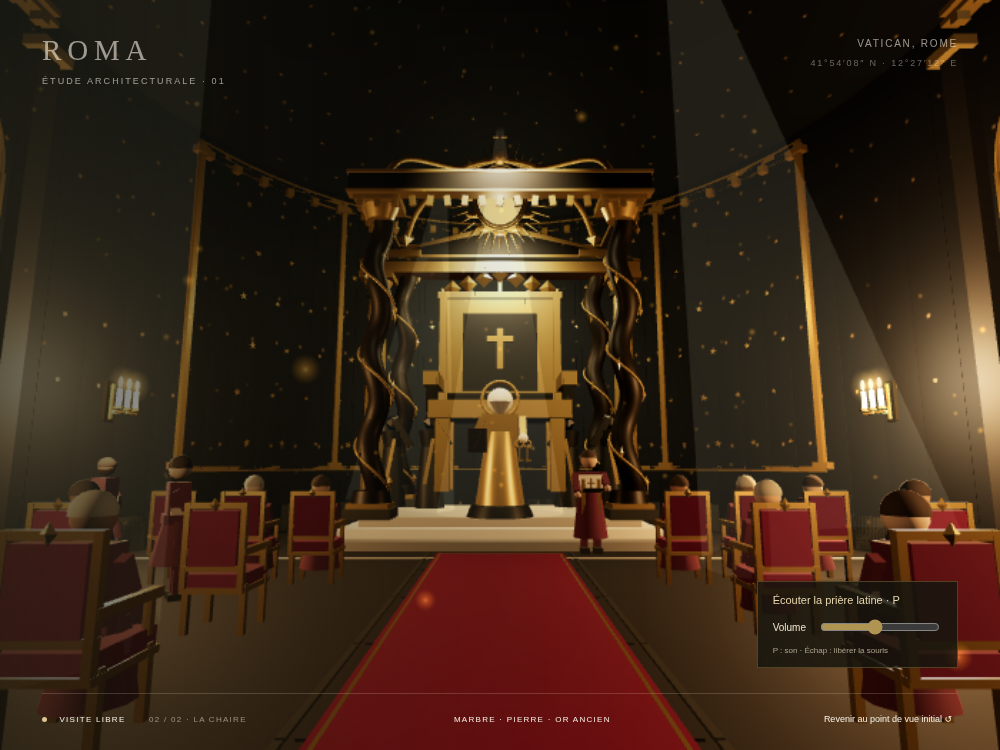
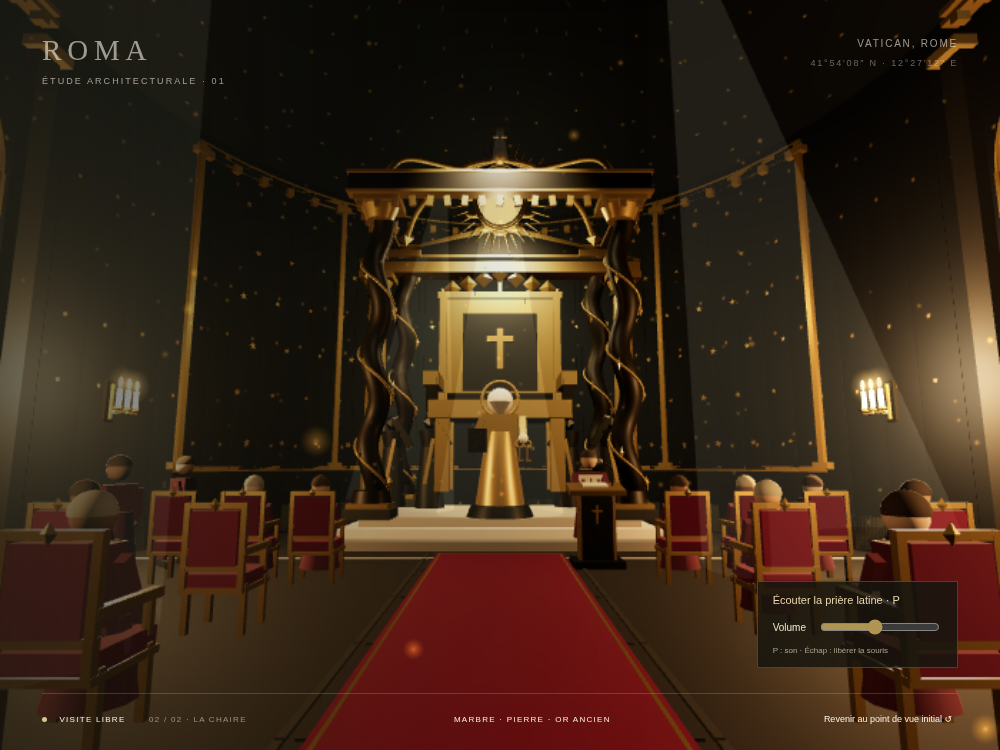
Articulate visitor walking and add ceremony lectern with microphone

diff --git a/src/chapel.js b/src/chapel.js
@@ -271,11 +271,14 @@ export function createChapel({scene,box,cylinder,mat,cream,stone,gray,black,gold
     const limbs=[];
     for(const side of [-1,1]){
       const leg=new THREE.Group();leg.position.set(side*.11,.63,0);group.add(leg);
-      const calf=new THREE.Mesh(new THREE.BoxGeometry(.11,.38,.13),robe);calf.position.y=-.2;leg.add(calf);
-      const shoe=new THREE.Mesh(new THREE.BoxGeometry(.14,.09,.23),black);shoe.position.set(0,-.45,.05);leg.add(shoe);
+      leg.position.y=.79;
+      const thigh=new THREE.Mesh(new THREE.BoxGeometry(.115,.34,.14),robe);thigh.position.y=-.17;leg.add(thigh);
+      const knee=new THREE.Group();knee.name='walking-knee';knee.position.y=-.34;leg.add(knee);
+      const calf=new THREE.Mesh(new THREE.BoxGeometry(.105,.33,.12),robe);calf.position.y=-.165;knee.add(calf);
+      const shoe=new THREE.Mesh(new THREE.BoxGeometry(.14,.1,.25),black);shoe.position.set(0,-.38,.055);knee.add(shoe);
       const arm=new THREE.Group();arm.position.set(side*.24,1.41,0);group.add(arm);
       const sleeve=new THREE.Mesh(new THREE.BoxGeometry(.105,.42,.13),robe);sleeve.position.y=-.2;arm.add(sleeve);
-      const hand=new THREE.Mesh(new THREE.SphereGeometry(.06,8,5),skin);hand.position.y=-.44;arm.add(hand);limbs.push({leg,arm,side});
+      const hand=new THREE.Mesh(new THREE.SphereGeometry(.06,8,5),skin);hand.position.y=-.44;arm.add(hand);limbs.push({leg,knee,arm,side});
     }
     if(role==='master-of-ceremonies'){
       part(.4,.28,.035,0,1.29,.144,cream);
@@ -290,9 +293,32 @@ export function createChapel({scene,box,cylinder,mat,cream,stone,gray,black,gold
   }
   const ceremonyMaster=standingPerson(1.65,-30.05,'master-of-ceremonies',0);
   obstacles.push({x:1.65,z:-30.05,hx:.48,hz:.48});
+  const lectern=new THREE.Group();lectern.name='ceremony-lectern';lectern.position.set(1.65,0,-29.38);chapel.add(lectern);
+  const deskPart=(w,h,d,x,y,z,m)=>{const mesh=new THREE.Mesh(new THREE.BoxGeometry(w,h,d),m);mesh.position.set(x,y,z);lectern.add(mesh);return mesh;};
+  deskPart(.86,.12,.65,0,.08,0,chairBronze);
+  deskPart(.62,1.13,.28,0,.69,0,chairBronze);
+  for(const x of [-.29,.29])deskPart(.045,1.12,.31,x,.69,0,chairGold);
+  const desktop=deskPart(.95,.09,.65,0,1.31,0,chairGold);desktop.rotation.x=.18;
+  const pages=deskPart(.43,.025,.33,0,1.38,-.05,cream);pages.rotation.x=.18;
+  deskPart(.035,.31,.035,0,.89,.155,chairGold);deskPart(.18,.035,.035,0,.95,.155,chairGold);
+  const microphone=new THREE.Group();microphone.name='ceremony-microphone';lectern.add(microphone);
+  const neck=new THREE.CatmullRomCurve3([new THREE.Vector3(.3,1.36,0),new THREE.Vector3(.3,1.65,0),new THREE.Vector3(.13,1.78,-.22)]);
+  microphone.add(new THREE.Mesh(new THREE.TubeGeometry(neck,16,.018,6,false),black));
+  const micHead=new THREE.Mesh(new THREE.SphereGeometry(.055,10,7),gray);micHead.scale.set(1,1,1.65);micHead.position.set(.13,1.78,-.22);microphone.add(micHead);
+  obstacles.push({x:1.65,z:-29.38,hx:.65,hz:.53});
+  function walkingPose(person,distance,moving){
+    const phase=distance*11;
+    person.limbs.forEach(({leg,knee,arm,side})=>{
+      const cycle=phase+(side<0?Math.PI:0);
+      leg.rotation.x=moving?Math.sin(cycle)*.42:0;
+      knee.rotation.x=moving?Math.max(0,-Math.sin(cycle))*.72:0;
+      arm.rotation.x=moving?-Math.sin(cycle)*.28:0;
+    });
+    person.group.position.y=moving?Math.abs(Math.sin(phase))*.025:0;
+  }
   for(const [index,side] of [-1,1].entries()){
     const person=standingPerson(side*6.6,-20.1-index*4,'walking-visitor',index+1);
-    walkers.push({...person,phase:index*.5,direction:1});
+    walkers.push({...person,distance:index*.4,direction:1});
   }
 
   function animate(time,viewerPosition){
@@ -300,23 +326,30 @@ export function createChapel({scene,box,cylinder,mat,cream,stone,gray,black,gold
     walkers.forEach((walker,index)=>{
       const nextZ=walker.group.position.z+walker.direction*delta*.32;
       const clear=!viewerPosition||Math.hypot(viewerPosition.x-walker.group.position.x,viewerPosition.z-nextZ)>.95;
-      if(clear)walker.group.position.z=nextZ;
+      if(clear){walker.distance+=Math.abs(nextZ-walker.group.position.z);walker.group.position.z=nextZ;}
       if(walker.group.position.z>-19.6)walker.direction=-1;
       if(walker.group.position.z<-28.6)walker.direction=1;
       walker.group.rotation.y=walker.direction<0?Math.PI:0;
-      walker.limbs.forEach(({leg,arm,side})=>{const stride=clear?Math.sin(time*3.1+index)*.18*side:0;leg.rotation.x=stride;arm.rotation.x=-stride*.8;});
+      walkingPose(walker,walker.distance,clear);
     });
     ceremonyMaster.limbs[1].arm.rotation.x=-1.05+Math.sin(time*.7)*.12;
     ceremonyMaster.head.rotation.x=.045+.025*Math.sin(time*.6);
     seatedMotion.forEach((person,index)=>person.rotation.x=Math.sin(time*.55+index)*.006);
     risingVisitors.forEach((actor,index)=>{
       // Se lever, sortir de la rangée, traverser son intervalle puis revenir s’asseoir.
-      const t=(time+index*9)%38;
+      const t=(actor.clock+delta)%38;
       const rise=THREE.MathUtils.smoothstep(t,3,5)*(1-THREE.MathUtils.smoothstep(t,33,35));
       const travel=THREE.MathUtils.smoothstep(t,7,16)*(1-THREE.MathUtils.smoothstep(t,23,32));
       const forward=THREE.MathUtils.smoothstep(t,5,7)*(1-THREE.MathUtils.smoothstep(t,32,33));
       const nextX=actor.x+actor.side*2.05*travel,nextZ=actor.z-1.25*forward;
       if(viewerPosition&&Math.hypot(viewerPosition.x-nextX,viewerPosition.z-nextZ)<.95)return;
+      actor.clock=t;
+      const dx=nextX-actor.group.position.x,dz=nextZ-actor.group.position.z,distance=Math.hypot(dx,dz);
+      actor.distance+=distance;
+      actor.walking.group.visible=rise>.99;actor.group.children.forEach(mesh=>mesh.visible=rise<=.99);
+      actor.walking.group.position.set(nextX,0,nextZ);
+      if(distance>.0001)actor.walking.group.rotation.y=Math.atan2(dx,dz);
+      walkingPose(actor.walking,actor.distance,distance>.0001);
       actor.group.position.set(nextX,0,nextZ);actor.group.userData.posture=rise>.95?'debout':'assis';
       actor.parts.forEach(({mesh,y,z})=>{
         const targetY=y===.19?.10:y===.44?.34:y===.72?.63:y===.47?.76:y+.28;
@@ -349,7 +382,8 @@ export function createChapel({scene,box,cylinder,mat,cream,stone,gray,black,gold
     }
     if(index%3===1){const book=localBox(.23,.025,.2,0,.86,.3,cream);book.rotation.x=-.2;}
     if(index===1||index===4||index===11||index===14){
-      const actor={group:person,x,z,side:Math.sign(x),parts:person.children.map(mesh=>({mesh,y:mesh.position.y,z:mesh.position.z}))};
+      const walking=standingPerson(x,z,'walking-standing-visitor',index);walking.group.visible=false;
+      const actor={group:person,walking,clock:risingVisitors.length*9,distance:0,x,z,side:Math.sign(x),parts:person.children.map(mesh=>({mesh,y:mesh.position.y,z:mesh.position.z}))};
       risingVisitors.push(actor);
     }else seatedMotion.push(person);
   }

diff --git a/README.md b/README.md
@@ -125,3 +125,5 @@ Un tapis rouge bordeaux à liseré doré parcourt l'allée centrale de la second
 ## Lumière et saint Pierre
 
 Quatre faisceaux dorés translucides accompagnent une statue centrale de saint Pierre sous le baldaquin, avec livre et clefs. Les paillettes passent à 280. Quatre des vingt visiteurs se lèvent, traversent les intervalles entre les rangées puis se rassoient ; les deux marcheurs latéraux sont conservés. Les déplacements s'arrêtent à proximité du joueur.
+
+Les visiteurs debout utilisent désormais des jambes articulées aux hanches et aux genoux, avec balancement opposé des bras et des pas synchronisés sur la distance parcourue. Les quatre visiteurs qui quittent leur chaise utilisent également cette marche. Le maître de cérémonie dispose d’un pupitre noir et or, avec livre et microphone décoratif ; le son reste la prière existante.
